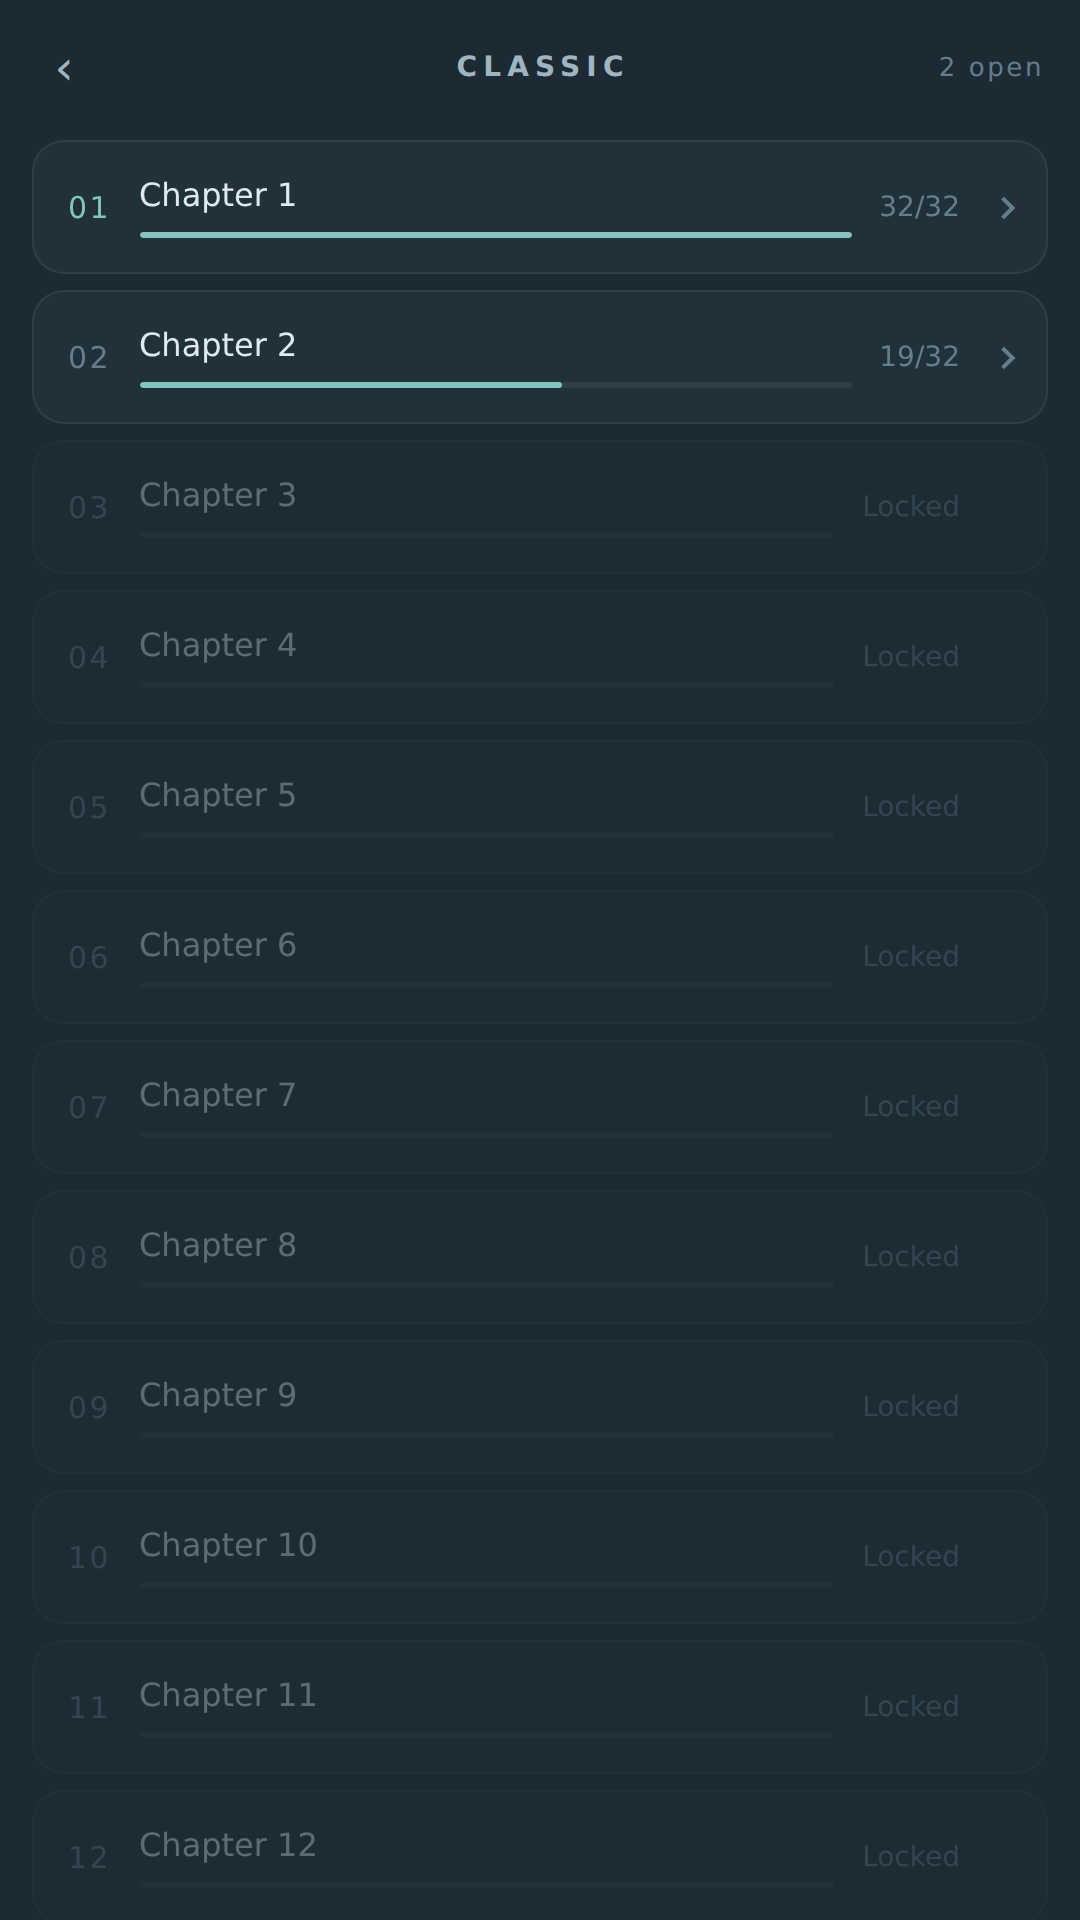
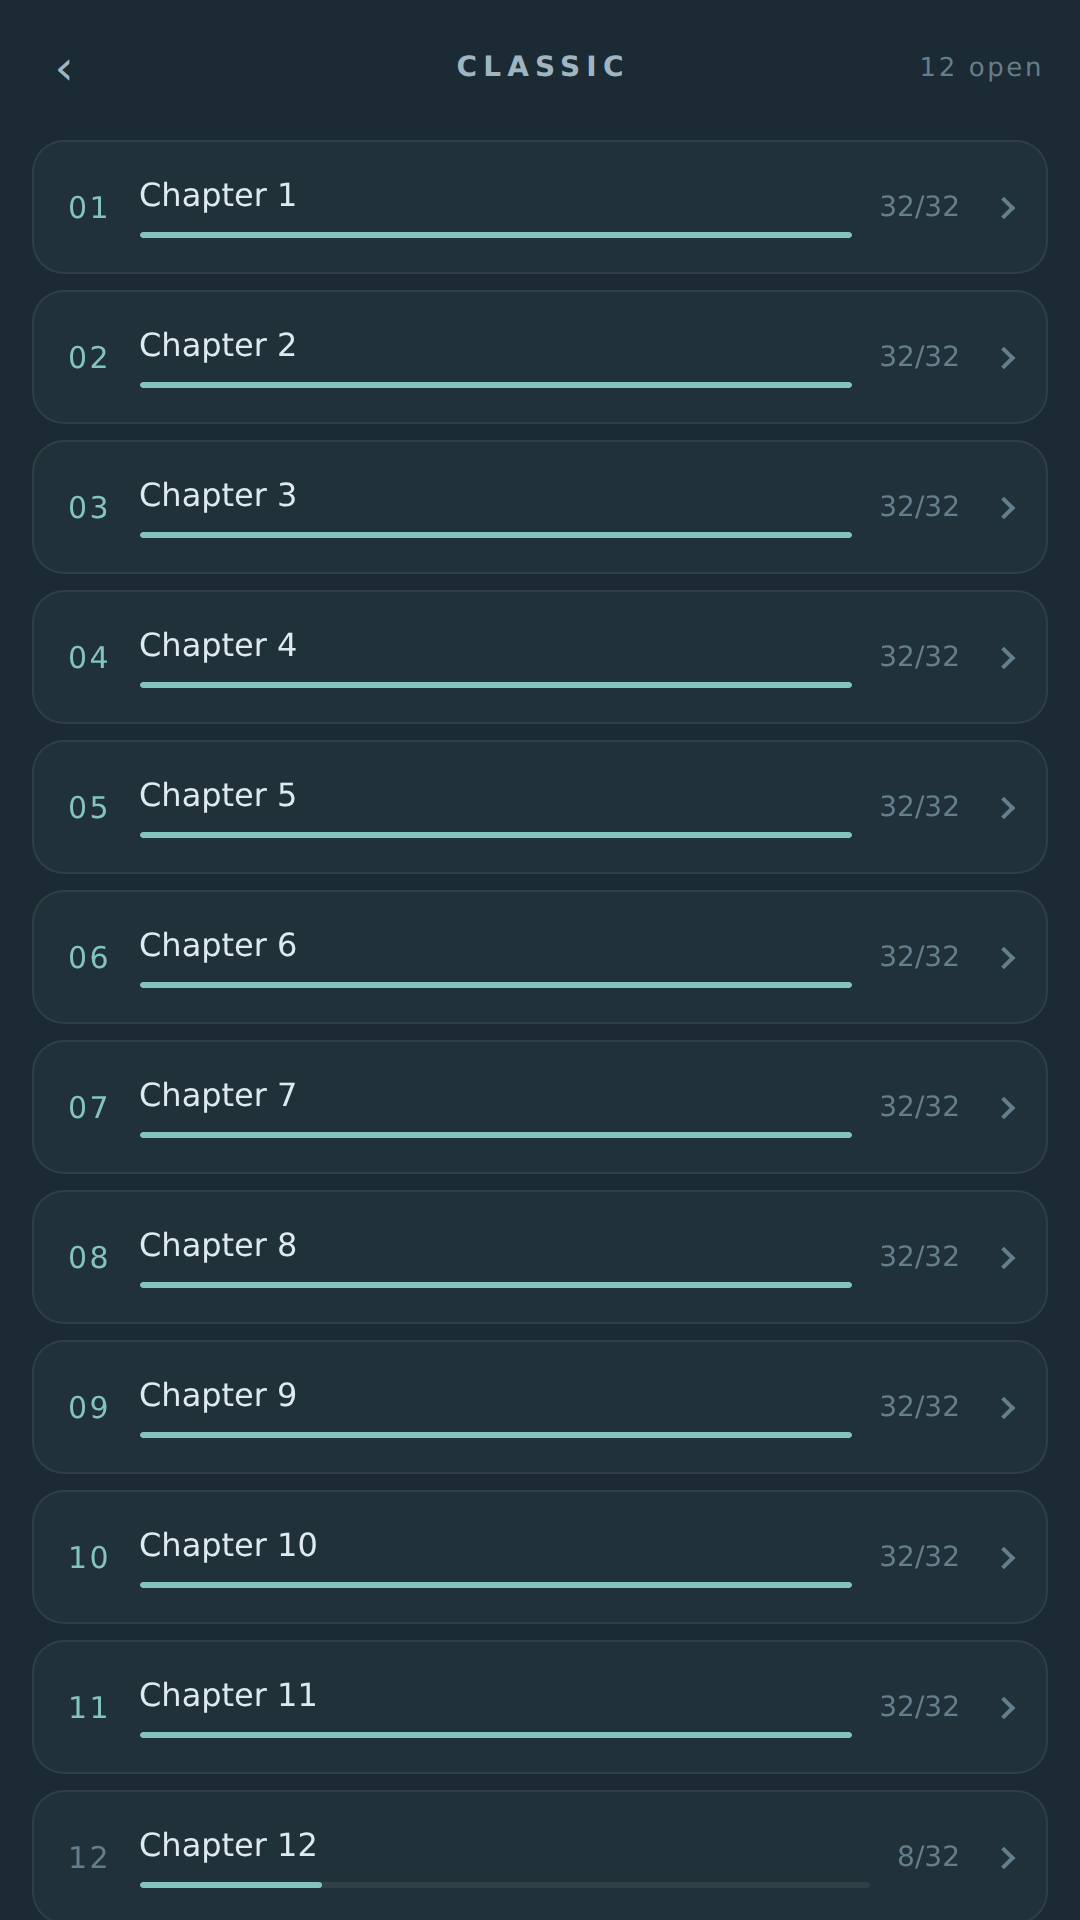
Redraw the mark, and pick screenshots from both ends of the difficulty ramp
The old icon was two lines crossing in a symmetric X with four different pieces
at the corners. At 48px that reads as a close button, and the four-fold symmetry
left it with no silhouette to remember; the corner pieces and the hub's thin
arcs collapsed into specks.

The new mark is one line that turns: a terminal at each end, through a hub on
the way. Chosen against five other directions rendered side by side at 512, 96
under a circular mask, and 48 — a knot read as a horseshoe, a line through a
centred hub read as a magnifying glass, and a two-line version went back to
being an X. The turning path was the only one that held its shape all the way
down.

Both terminals carry one colour, because a line in this game has one colour;
an earlier draft had teal at one end and terracotta at the other, which is
illegal on any real board. The accent moved to the hub instead, where it is
legal and still gives the mark a warm point to be found by. Two liberties
remain, both for legibility: the hub is rimmed in an accent rather than the
board's neutral ink, and the rim is closed rather than the board's two arcs,
which break up below about 64px.

Screenshots now come from chapter 1 and chapter 12 rather than 2 and 4, so the
listing shows both what the game asks of you at the start and what it becomes.
The fake save used for capture had to reach chapter 12 for that.

Also added `npm run assets` packing store-assets/ into a zip, so the folder can
[…]

diff --git a/src/main.ts b/src/main.ts
@@ -31,8 +31,6 @@ import {
   THEMES,
   paletteFor,
   themeForChapter,
-  traceHubTick,
-  traceShape,
 } from "./render/palette";
 import { Renderer, cellAt, centerOf } from "./render/renderer";
 
@@ -207,8 +205,19 @@ function prefetchLikely(mode: Mode, chapter: number): void {
 // --- menu ------------------------------------------------------------------
 
 /**
- * The menu mark, drawn in the game's own language rather than set as an icon:
- * two lines crossing at a hub, which is the core mechanic in miniature.
+ * The menu mark and the app icon, painted by one routine so the two can never
+ * drift apart. One line, drawn the way the game draws one: a terminal at each
+ * end in the same colour, turning through a hub on the way.
+ *
+ * The previous mark was two lines crossing in a symmetric X. At icon size that
+ * reads as a close button, not a puzzle — and the four-fold symmetry gave it no
+ * silhouette to remember. A path that *turns* is what the game is actually
+ * about, and it stays legible down to 48px where a crossing does not.
+ *
+ * Two deliberate liberties, both for legibility rather than truth: the hub is
+ * rimmed in an accent instead of the board's neutral ink, because the mark
+ * needs one warm point to be found by; and the rim is a closed ring rather than
+ * the board's two arcs, which break into specks below about 64px.
  */
 function paintMark(
   ctx: CanvasRenderingContext2D,
@@ -216,50 +225,51 @@ function paintMark(
   palette: ReturnType<typeof paletteFor>,
   scale = 1,
 ): void {
-  const mid = size / 2;
-  const reach = size * 0.32 * scale;
-  const piece = size * 0.114 * scale;
-  const corners: [number, number][] = [
-    [mid - reach, mid - reach],
-    [mid + reach, mid + reach],
-    [mid + reach, mid - reach],
-    [mid - reach, mid + reach],
+  // Laid out in fractions of the side and scaled about the centre, so the
+  // maskable variant insets into the safe zone without a second layout.
+  const at = (fx: number, fy: number): [number, number] => [
+    size * (0.5 + (fx - 0.5) * scale),
+    size * (0.5 + (fy - 0.5) * scale),
   ];
+  const track: [number, number][] = [
+    at(0.22, 0.78),
+    at(0.46, 0.54),
+    at(0.46, 0.26),
+    at(0.79, 0.26),
+  ];
+  const [hubX, hubY] = at(0.46, 0.54);
+  const shape: ShapeIdLike = 1;
 
   ctx.lineCap = "round";
-  ctx.lineWidth = size * 0.045 * scale;
-  for (const [shape, pair] of [
-    [0, [corners[0], corners[1]]],
-    [1, [corners[2], corners[3]]],
-  ] as [ShapeIdLike, [number, number][]][]) {
-    ctx.strokeStyle = palette.line[shape];
-    ctx.beginPath();
-    ctx.moveTo(pair[0][0], pair[0][1]);
-    ctx.lineTo(pair[1][0], pair[1][1]);
-    ctx.stroke();
-  }
-
-  ctx.fillStyle = palette.hubFill;
+  ctx.lineJoin = "round";
+  ctx.lineWidth = size * 0.155 * scale;
+  // One flat colour for the whole line, terminals included. On the board a line
+  // is drawn a shade deeper than its pieces, which at icon size reads as two
+  // different things joined rather than one line.
+  ctx.strokeStyle = palette.shape[shape];
   ctx.beginPath();
-  ctx.arc(mid, mid, piece, 0, Math.PI * 2);
-  ctx.fill();
-  ctx.lineWidth = size * 0.038 * scale;
-  ctx.strokeStyle = palette.hubTickFull;
-  for (let d = 0; d < 2; d++) {
-    traceHubTick(ctx, mid, mid, piece * 1.14, d, 2);
-    ctx.stroke();
-  }
+  ctx.moveTo(track[0][0], track[0][1]);
+  for (const [x, y] of track.slice(1)) ctx.lineTo(x, y);
+  ctx.stroke();
 
-  for (const [shape, point] of [
-    [0, corners[0]],
-    [0, corners[1]],
-    [1, corners[2]],
-    [1, corners[3]],
-  ] as [ShapeIdLike, [number, number]][]) {
-    ctx.fillStyle = palette.shape[shape];
-    traceShape(ctx, shape, point[0], point[1], piece, 0, palette.style.cornerFactor);
+  // Both ends carry the same colour, because one line has one colour.
+  ctx.fillStyle = palette.shape[shape];
+  for (const [x, y] of [track[0], track[track.length - 1]]) {
+    ctx.beginPath();
+    ctx.arc(x, y, size * 0.115 * scale, 0, Math.PI * 2);
     ctx.fill();
   }
+
+  const hubRadius = size * 0.13 * scale;
+  ctx.fillStyle = palette.background;
+  ctx.beginPath();
+  ctx.arc(hubX, hubY, hubRadius, 0, Math.PI * 2);
+  ctx.fill();
+  ctx.lineWidth = size * 0.05 * scale;
+  ctx.strokeStyle = palette.shape[0];
+  ctx.beginPath();
+  ctx.arc(hubX, hubY, hubRadius, 0, Math.PI * 2);
+  ctx.stroke();
 }
 
 /**

diff --git a/scripts/pack-assets.ts b/scripts/pack-assets.ts
@@ -1,0 +1,100 @@
+/**
+ * Packs store-assets/ into a single zip to hand over.
+ *
+ * Written against `zip` if it is on the path and a minimal writer if it is not,
+ * because the store assets should be downloadable from a clean checkout without
+ * anyone installing anything first.
+ */
+import { spawnSync } from "node:child_process";
+import { readFileSync, readdirSync, statSync, writeFileSync } from "node:fs";
+import { join, relative } from "node:path";
+import { deflateRawSync } from "node:zlib";
+
+const ROOT = new URL("../", import.meta.url).pathname;
+const SOURCE = join(ROOT, "store-assets");
+const OUT = join(ROOT, "thrum-store-assets.zip");
+
+function filesUnder(dir: string): string[] {
+  return readdirSync(dir).flatMap((name) => {
+    const full = join(dir, name);
+    return statSync(full).isDirectory() ? filesUnder(full) : [full];
+  });
+}
+
+/** CRC-32, the checksum the zip format requires for every entry. */
+function crc32(data: Buffer): number {
+  let crc = ~0;
+  for (const byte of data) {
+    crc ^= byte;
+    for (let bit = 0; bit < 8; bit++) {
+      crc = (crc >>> 1) ^ (0xedb88320 & -(crc & 1));
+    }
+  }
+  return ~crc >>> 0;
+}
+
+function writeZip(files: string[]): void {
+  const chunks: Buffer[] = [];
+  const central: Buffer[] = [];
+  let offset = 0;
+
+  for (const file of files.sort()) {
+    const name = relative(SOURCE, file).split("\\").join("/");
+    const nameBytes = Buffer.from(name, "utf8");
+    const raw = readFileSync(file);
+    const deflated = deflateRawSync(raw);
+    // PNGs are already deflated, so storing beats re-compressing them.
+    const useDeflate = deflated.length < raw.length;
+    const body = useDeflate ? deflated : raw;
+    const method = useDeflate ? 8 : 0;
+    const sum = crc32(raw);
+
+    const local = Buffer.alloc(30);
+    local.writeUInt32LE(0x04034b50, 0);
+    local.writeUInt16LE(20, 4);
+    local.writeUInt16LE(0, 6);
+    local.writeUInt16LE(method, 8);
+    local.writeUInt16LE(0, 10);
+    local.writeUInt16LE(0, 12);
+    local.writeUInt32LE(sum, 14);
+    local.writeUInt32LE(body.length, 18);
+    local.writeUInt32LE(raw.length, 22);
+    local.writeUInt16LE(nameBytes.length, 26);
+    local.writeUInt16LE(0, 28);
+    chunks.push(local, nameBytes, body);
+
+    const entry = Buffer.alloc(46);
+    entry.writeUInt32LE(0x02014b50, 0);
+    entry.writeUInt16LE(20, 4);
+    entry.writeUInt16LE(20, 6);
+    entry.writeUInt16LE(0, 8);
+    entry.writeUInt16LE(method, 10);
+    entry.writeUInt16LE(0, 12);
+    entry.writeUInt16LE(0, 14);
+    entry.writeUInt32LE(sum, 16);
+    entry.writeUInt32LE(body.length, 20);
+    entry.writeUInt32LE(raw.length, 24);
+    entry.writeUInt16LE(nameBytes.length, 28);
+    entry.writeUInt32LE(offset, 42);
+    central.push(entry, nameBytes);
+
+    offset += local.length + nameBytes.length + body.length;
+  }
+
+  const directory = Buffer.concat(central);
+  const end = Buffer.alloc(22);
+  end.writeUInt32LE(0x06054b50, 0);
+  end.writeUInt16LE(files.length, 8);
+  end.writeUInt16LE(files.length, 10);
+  end.writeUInt32LE(directory.length, 12);
+  end.writeUInt32LE(offset, 16);
+
+  writeFileSync(OUT, Buffer.concat([...chunks, directory, end]));
+}
+
+const files = filesUnder(SOURCE);
+const zipped = spawnSync("zip", ["-rq", OUT, "."], { cwd: SOURCE });
+if (zipped.error || zipped.status !== 0) writeZip(files);
+
+const size = statSync(OUT).size;
+console.log(`wrote ${relative(ROOT, OUT)}  (${files.length} files, ${(size / 1024).toFixed(0)} kB)`);

diff --git a/scripts/make-assets.ts b/scripts/make-assets.ts
@@ -182,10 +182,13 @@ async function main(): Promise<void> {
     cdp.evaluate<boolean>("typeof window.__startLevel === 'function'"),
   );
 
-  // A save with some progress: locked rows and an empty menu photograph badly.
+  // A save deep enough to reach chapter 12, since one of the shots is taken
+  // there. An empty menu and a wall of locked rows photograph badly anyway.
   const solved = [
-    ...Array.from({ length: 32 }, (_, i) => `c1-s${i + 1}`),
-    ...Array.from({ length: 19 }, (_, i) => `c2-s${i + 1}`),
+    ...Array.from({ length: 11 }, (_, c) =>
+      Array.from({ length: 32 }, (_, i) => `c${c + 1}-s${i + 1}`),
+    ).flat(),
+    ...Array.from({ length: 8 }, (_, i) => `c12-s${i + 1}`),
   ];
   await cdp.evaluate(
     `localStorage.setItem('thrum.solved', ${JSON.stringify(JSON.stringify(solved))})`,
@@ -200,8 +203,10 @@ async function main(): Promise<void> {
   await cdp.shot(new URL("screenshots/play-1-menu.png", PUBLIC));
   console.log("  shot    play-1-menu.png");
 
-  // A puzzle part-solved, which shows the mechanic better than an empty board.
-  await cdp.evaluate("window.__startLevel('classic', 2, 20)");
+  // Two boards, deliberately from opposite ends of the ramp: an early chapter-1
+  // stage so a browser sees something they could obviously do, and a chapter-12
+  // one so they can see what the game grows into.
+  await cdp.evaluate("window.__startLevel('classic', 1, 14)");
   await waitFor("level", async () => cdp.evaluate<boolean>("window.__game() !== null"));
   await delay(900);
   await cdp.evaluate(`(() => {
@@ -222,8 +227,8 @@ async function main(): Promise<void> {
   await cdp.shot(new URL("screenshots/play-2-puzzle.png", PUBLIC));
   console.log("  shot    play-2-puzzle.png");
 
-  // A solved board, glowing.
-  await cdp.evaluate("window.__startLevel('classic', 4, 12)");
+  // The chapter-12 board, solved: bigger, three colours, and finished.
+  await cdp.evaluate("window.__startLevel('classic', 12, 9)");
   await waitFor("level", async () => cdp.evaluate<boolean>("window.__game() !== null"));
   await delay(600);
   await cdp.evaluate(`(() => {

diff --git a/store-assets/README.md b/store-assets/README.md
@@ -6,6 +6,9 @@ game's menu mark and photographs the screenshots from the real running build,
 writes them into `public/`, and copies them here. Regenerate rather than edit;
 an edited file is silently overwritten on the next run.
 
+The same command also writes `thrum-store-assets.zip` at the repository root,
+which is this whole folder in one download.
+
 ## Icons
 
 | File | Size | Where it goes |
@@ -24,8 +27,8 @@ All 1080×1920 (Play's phone size), 2–8 required, five supplied.
 | File | What it shows |
 | --- | --- |
 | `screenshots/play-1-menu.png` | The main menu, on a save with progress — an empty menu photographs badly |
-| `screenshots/play-2-puzzle.png` | A board mid-solve, one line finished and one half-drawn |
-| `screenshots/play-3-solved.png` | A completed board |
+| `screenshots/play-2-puzzle.png` | Chapter 1 mid-solve: two colours, one board, obviously doable |
+| `screenshots/play-3-solved.png` | Chapter 12, solved: three colours, hubs, a darker theme — what the game grows into |
 | `screenshots/play-4-chapters.png` | Chapter select, showing the scale of the thing |
 | `screenshots/play-5-themes.png` | The themes screen |
 
